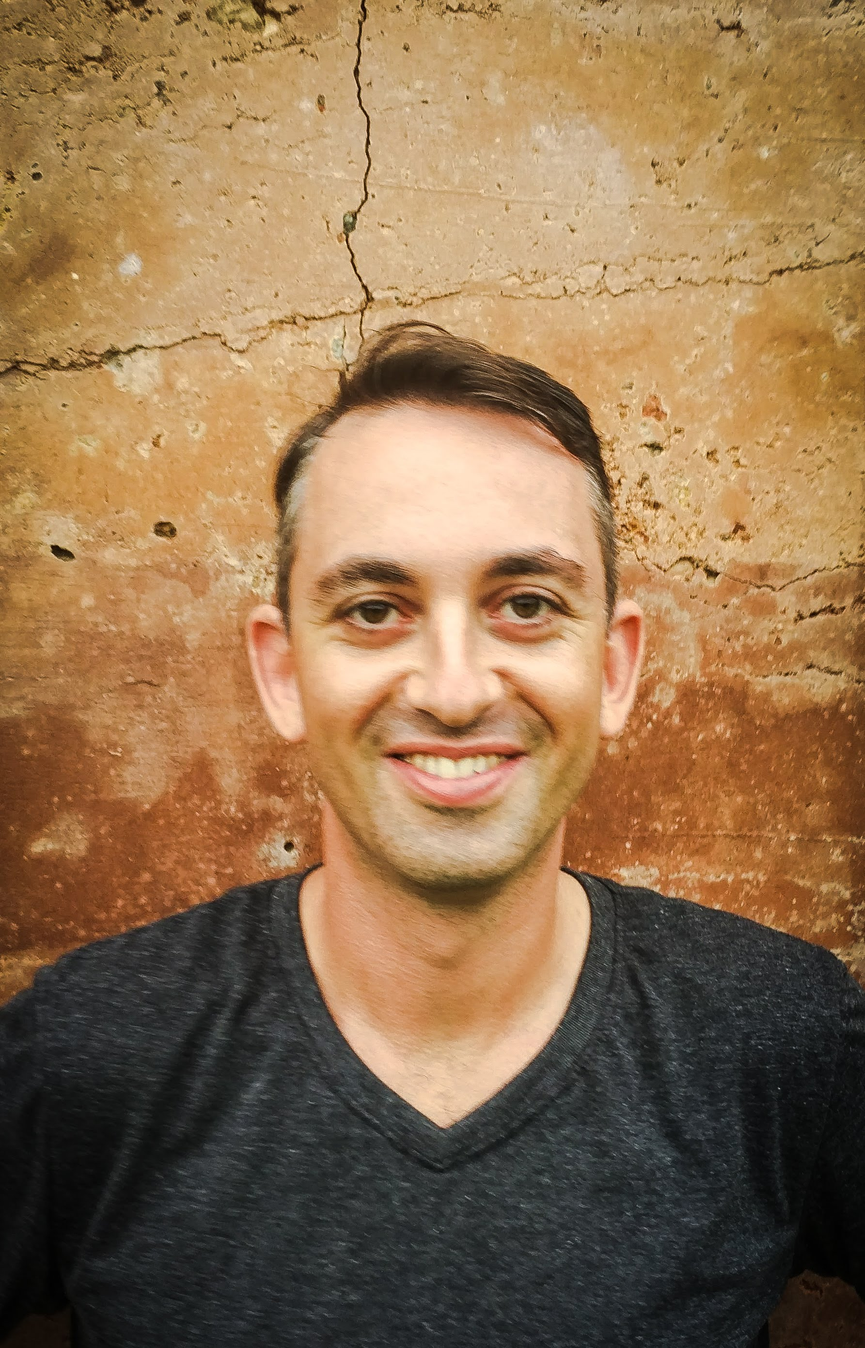
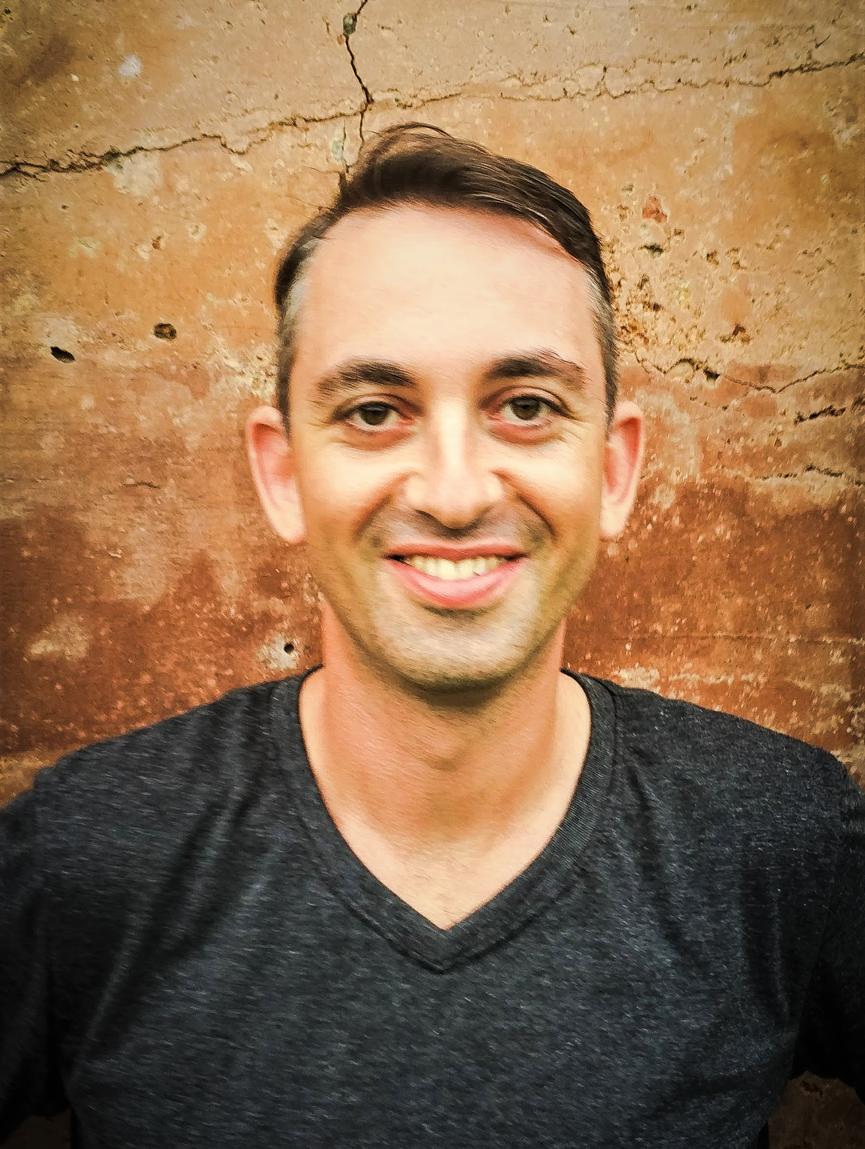
Update the picture, removed the Academic header
And some other adjustments

diff --git a/index.html b/index.html
@@ -120,7 +120,7 @@
 
       
       
-      <ul class="navbar-nav ml-auto">
+      <ul class="navbar-nav mr-auto">
         
 
         
@@ -259,69 +259,6 @@
   
   
   
-    
-
-
-
-<section id="hero" class="hero-overlay" style="
-
-background-color: #666;
-
-
-background-image:
-linear-gradient(rgba(0, 0, 0, 0.5), rgba(0, 0, 0, 0.5)), 
-url('/img/headers/bubbles-wide.jpg');
-
-;">
-
-  <div class="container">
-
-    <h1 class="hero-title" itemprop="headline">
-      Academic
-    </h1>
-
-    
-    <p class="hero-lead">The highly flexible website framework for Hugo with an extensible plugin mechanism. Create a beautifully simple site in under 10 minutes 🚀
-<div style="margin-top: -0.5rem;">
-  <a id="academic-release" href="https://sourcethemes.com/academic/updates">Latest release</a>
-</div>
-<div class="mt-3">
-  <a class="github-button" href="https://github.com/gcushen/hugo-academic" data-icon="octicon-star" data-size="large" data-show-count="true" aria-label="Star gcushen/hugo-academic on GitHub">Star</a>
-</div>
-<script async defer src="https://buttons.github.io/buttons.js"></script>
-<script type="text/javascript">
-  (function defer() {
-    if (window.jQuery) {
-      jQuery(document).ready(function(){
-        GetLatestReleaseInfo();
-      });
-    } else {
-      setTimeout(function() { defer() }, 50);
-    }
-  })();<br />
-  function GetLatestReleaseInfo() {
-    $.getJSON(&lsquo;<a href="https://api.github.com/repos/gcushen/hugo-academic/tags').done(function" target="_blank">https://api.github.com/repos/gcushen/hugo-academic/tags').done(function</a> (json) {
-      let release = json[0];
-      // let downloadURL = release.zipball_url;
-      $(&lsquo;#academic-release&rsquo;).text(&lsquo;Latest release &rsquo; + release.name);<br />
-    });<br />
-}<br />
-</script></p>
-    
-
-    
-    <p><a href="./post/getting-started/" class="btn btn-outline-light btn-lg"><i class="fas fa-download"></i> Install Now</a></p>
-    
-
-  </div>
-
-</section>
-
-  
-
-  
-  
-  
   <section id="about" class="home-section">
     <div class="container">
       
@@ -409,7 +346,7 @@ url('/img/headers/bubbles-wide.jpg');
 
 <h1 id="biography">Biography</h1>
 
-<p>Lena Smith is a professor of artificial intelligence at the Stanford AI Lab. Her research interests include distributed robotics, mobile computing and programmable matter. She leads the Robotic Neurobiology group, which develops self-reconfiguring robots, systems of self-organizing robots, and mobile sensor networks.</p>
+<p>Gil Piven is a superman.</p>
 
 <p>Lorem ipsum dolor sit amet, consectetur adipiscing elit. Sed neque elit, tristique placerat feugiat ac, facilisis vitae arcu. Proin eget egestas augue. Praesent ut sem nec arcu pellentesque aliquet. Duis dapibus diam vel metus tempus vulputate.</p>
 

diff --git a/tutorial/example/index.html b/tutorial/example/index.html
@@ -127,7 +127,7 @@ Tip 2 &hellip;">
 
       
       
-      <ul class="navbar-nav ml-auto">
+      <ul class="navbar-nav mr-auto">
         
 
         

diff --git a/404.html b/404.html
@@ -119,7 +119,7 @@
 
       
       
-      <ul class="navbar-nav ml-auto">
+      <ul class="navbar-nav mr-auto">
         
 
         

diff --git a/categories/index.html b/categories/index.html
@@ -121,7 +121,7 @@
 
       
       
-      <ul class="navbar-nav ml-auto">
+      <ul class="navbar-nav mr-auto">
         
 
         

diff --git a/post/getting-started/index.html b/post/getting-started/index.html
@@ -123,7 +123,7 @@
 
       
       
-      <ul class="navbar-nav ml-auto">
+      <ul class="navbar-nav mr-auto">
         
 
         

diff --git a/post/index.html b/post/index.html
@@ -112,7 +112,7 @@
 
       
       
-      <ul class="navbar-nav ml-auto">
+      <ul class="navbar-nav mr-auto">
         
 
         

diff --git a/project/deep-learning/index.html b/project/deep-learning/index.html
@@ -123,7 +123,7 @@
 
       
       
-      <ul class="navbar-nav ml-auto">
+      <ul class="navbar-nav mr-auto">
         
 
         

diff --git a/project/example-external-project/index.html b/project/example-external-project/index.html
@@ -123,7 +123,7 @@
 
       
       
-      <ul class="navbar-nav ml-auto">
+      <ul class="navbar-nav mr-auto">
         
 
         

diff --git a/project/index.html b/project/index.html
@@ -121,7 +121,7 @@
 
       
       
-      <ul class="navbar-nav ml-auto">
+      <ul class="navbar-nav mr-auto">
         
 
         

diff --git a/publication/clothing-search/index.html b/publication/clothing-search/index.html
@@ -123,7 +123,7 @@
 
       
       
-      <ul class="navbar-nav ml-auto">
+      <ul class="navbar-nav mr-auto">
         
 
         

diff --git a/publication/index.html b/publication/index.html
@@ -112,7 +112,7 @@
 
       
       
-      <ul class="navbar-nav ml-auto">
+      <ul class="navbar-nav mr-auto">
         
 
         

diff --git a/publication/person-re-identification/index.html b/publication/person-re-identification/index.html
@@ -123,7 +123,7 @@
 
       
       
-      <ul class="navbar-nav ml-auto">
+      <ul class="navbar-nav mr-auto">
         
 
         
